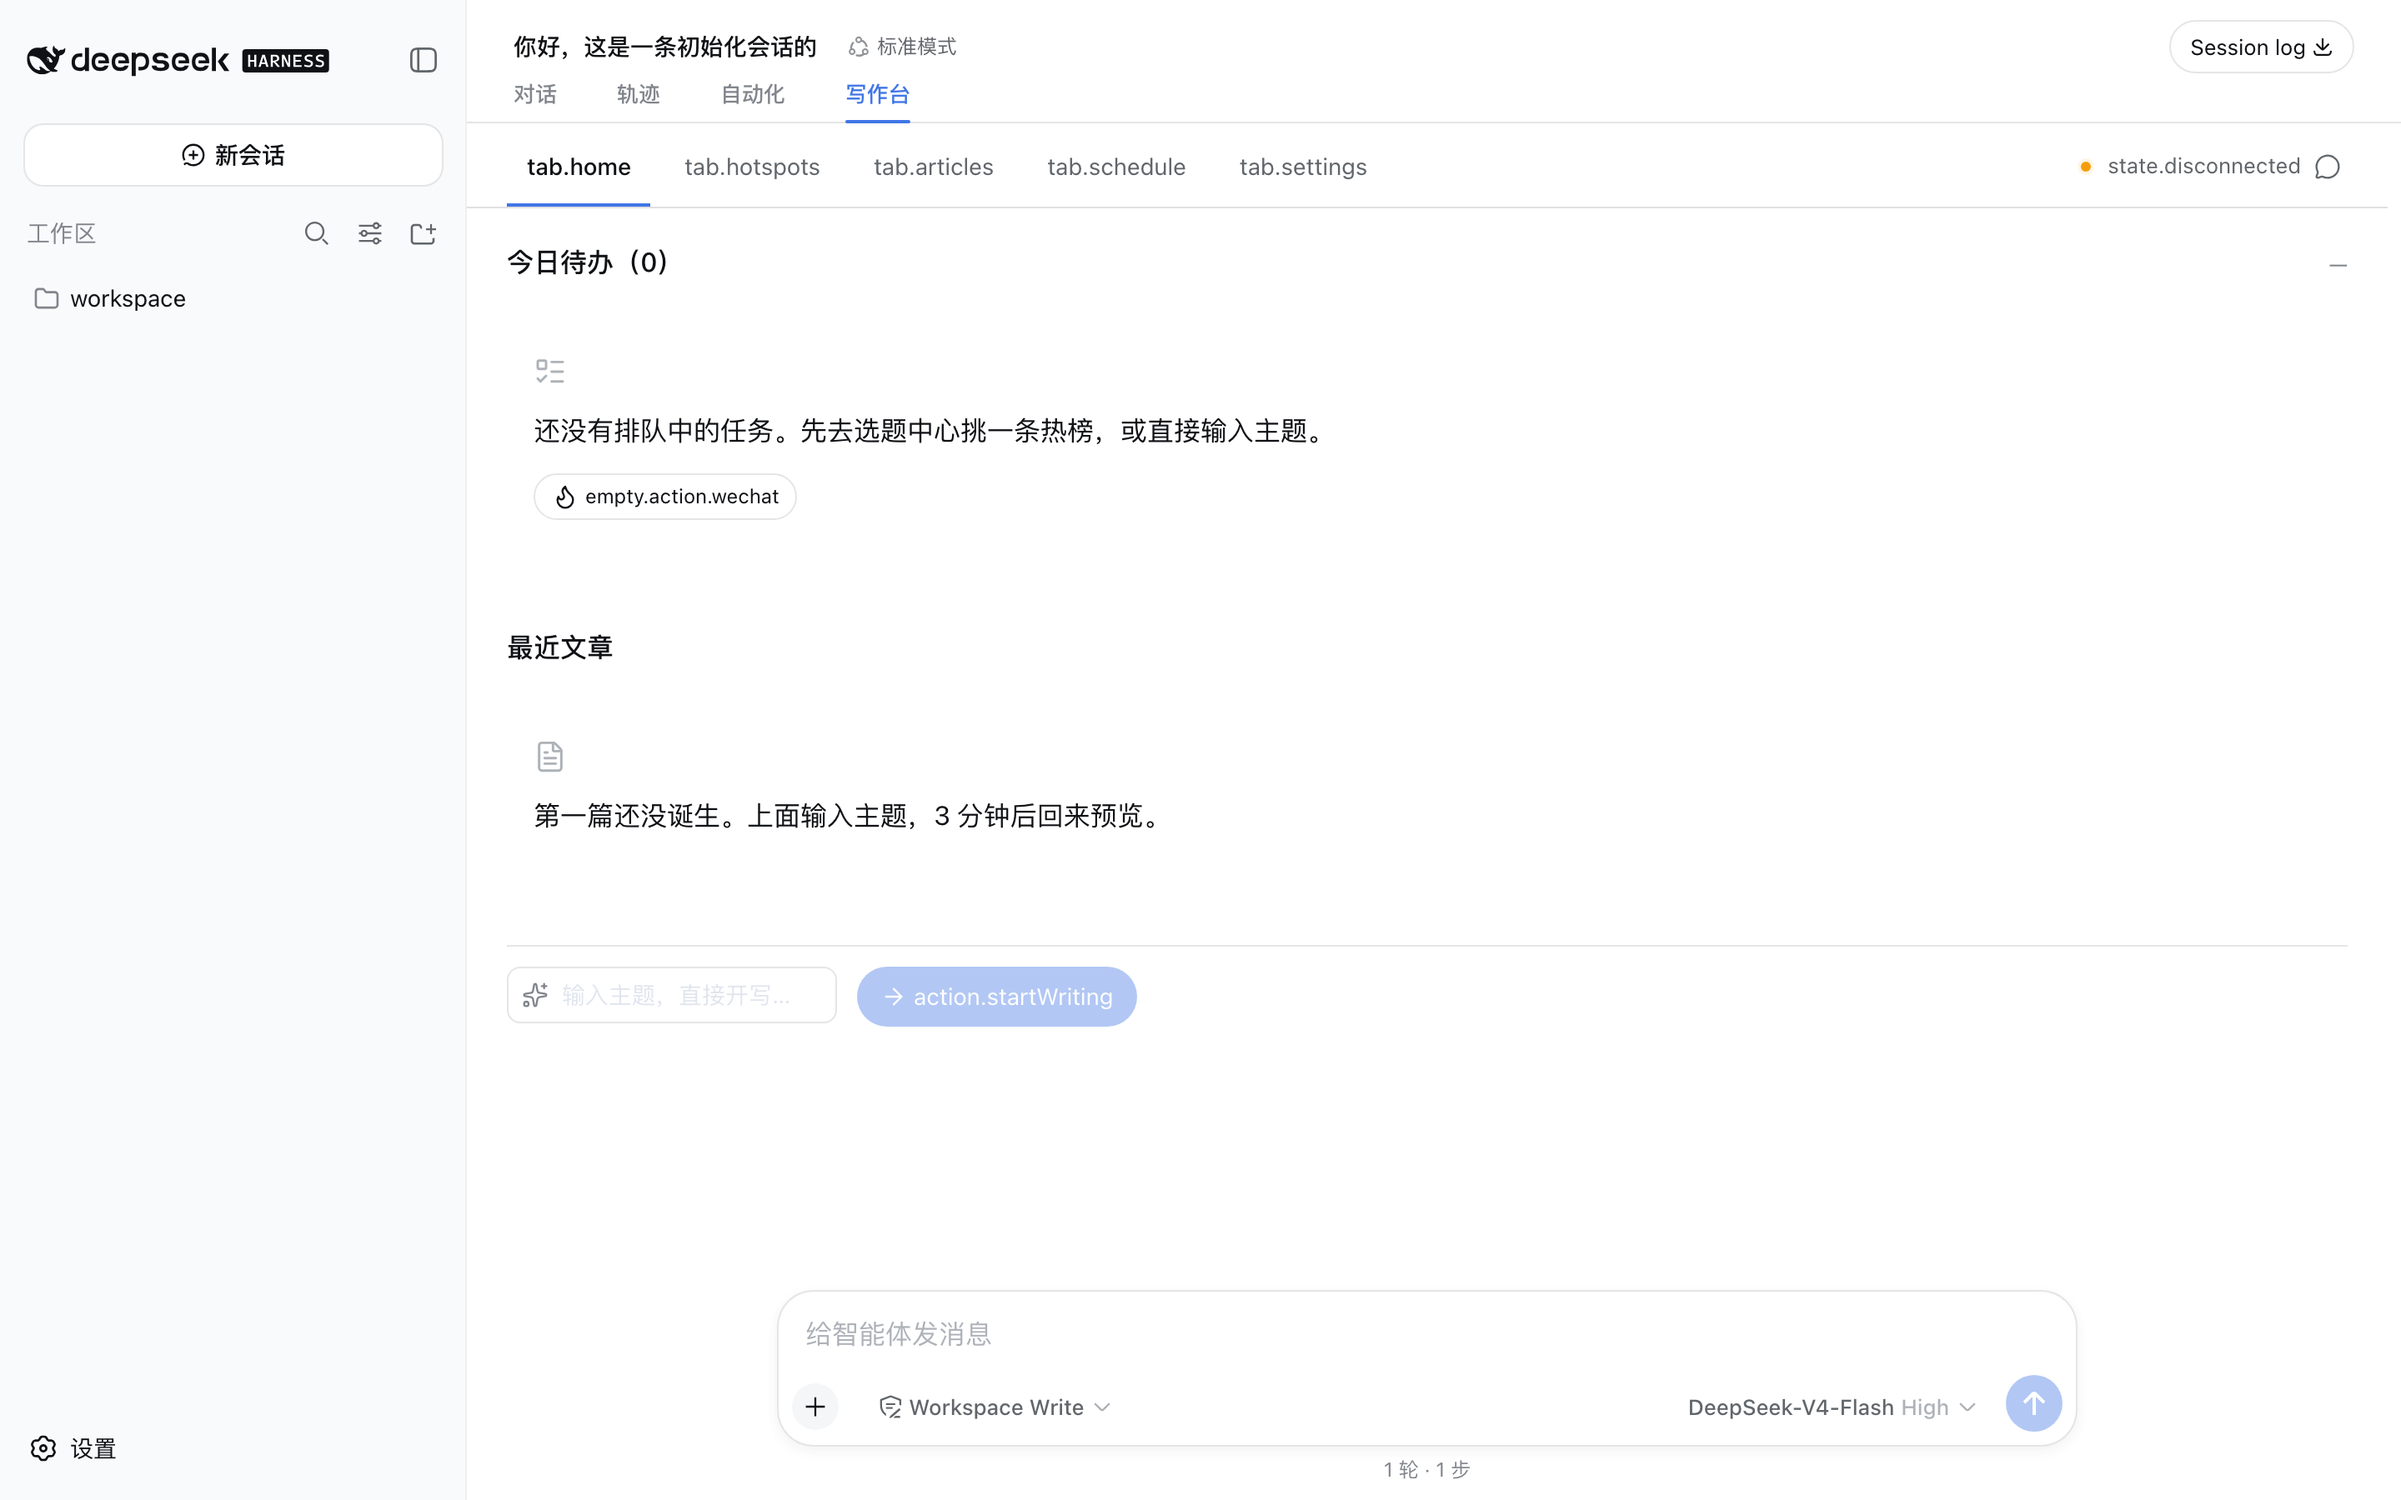
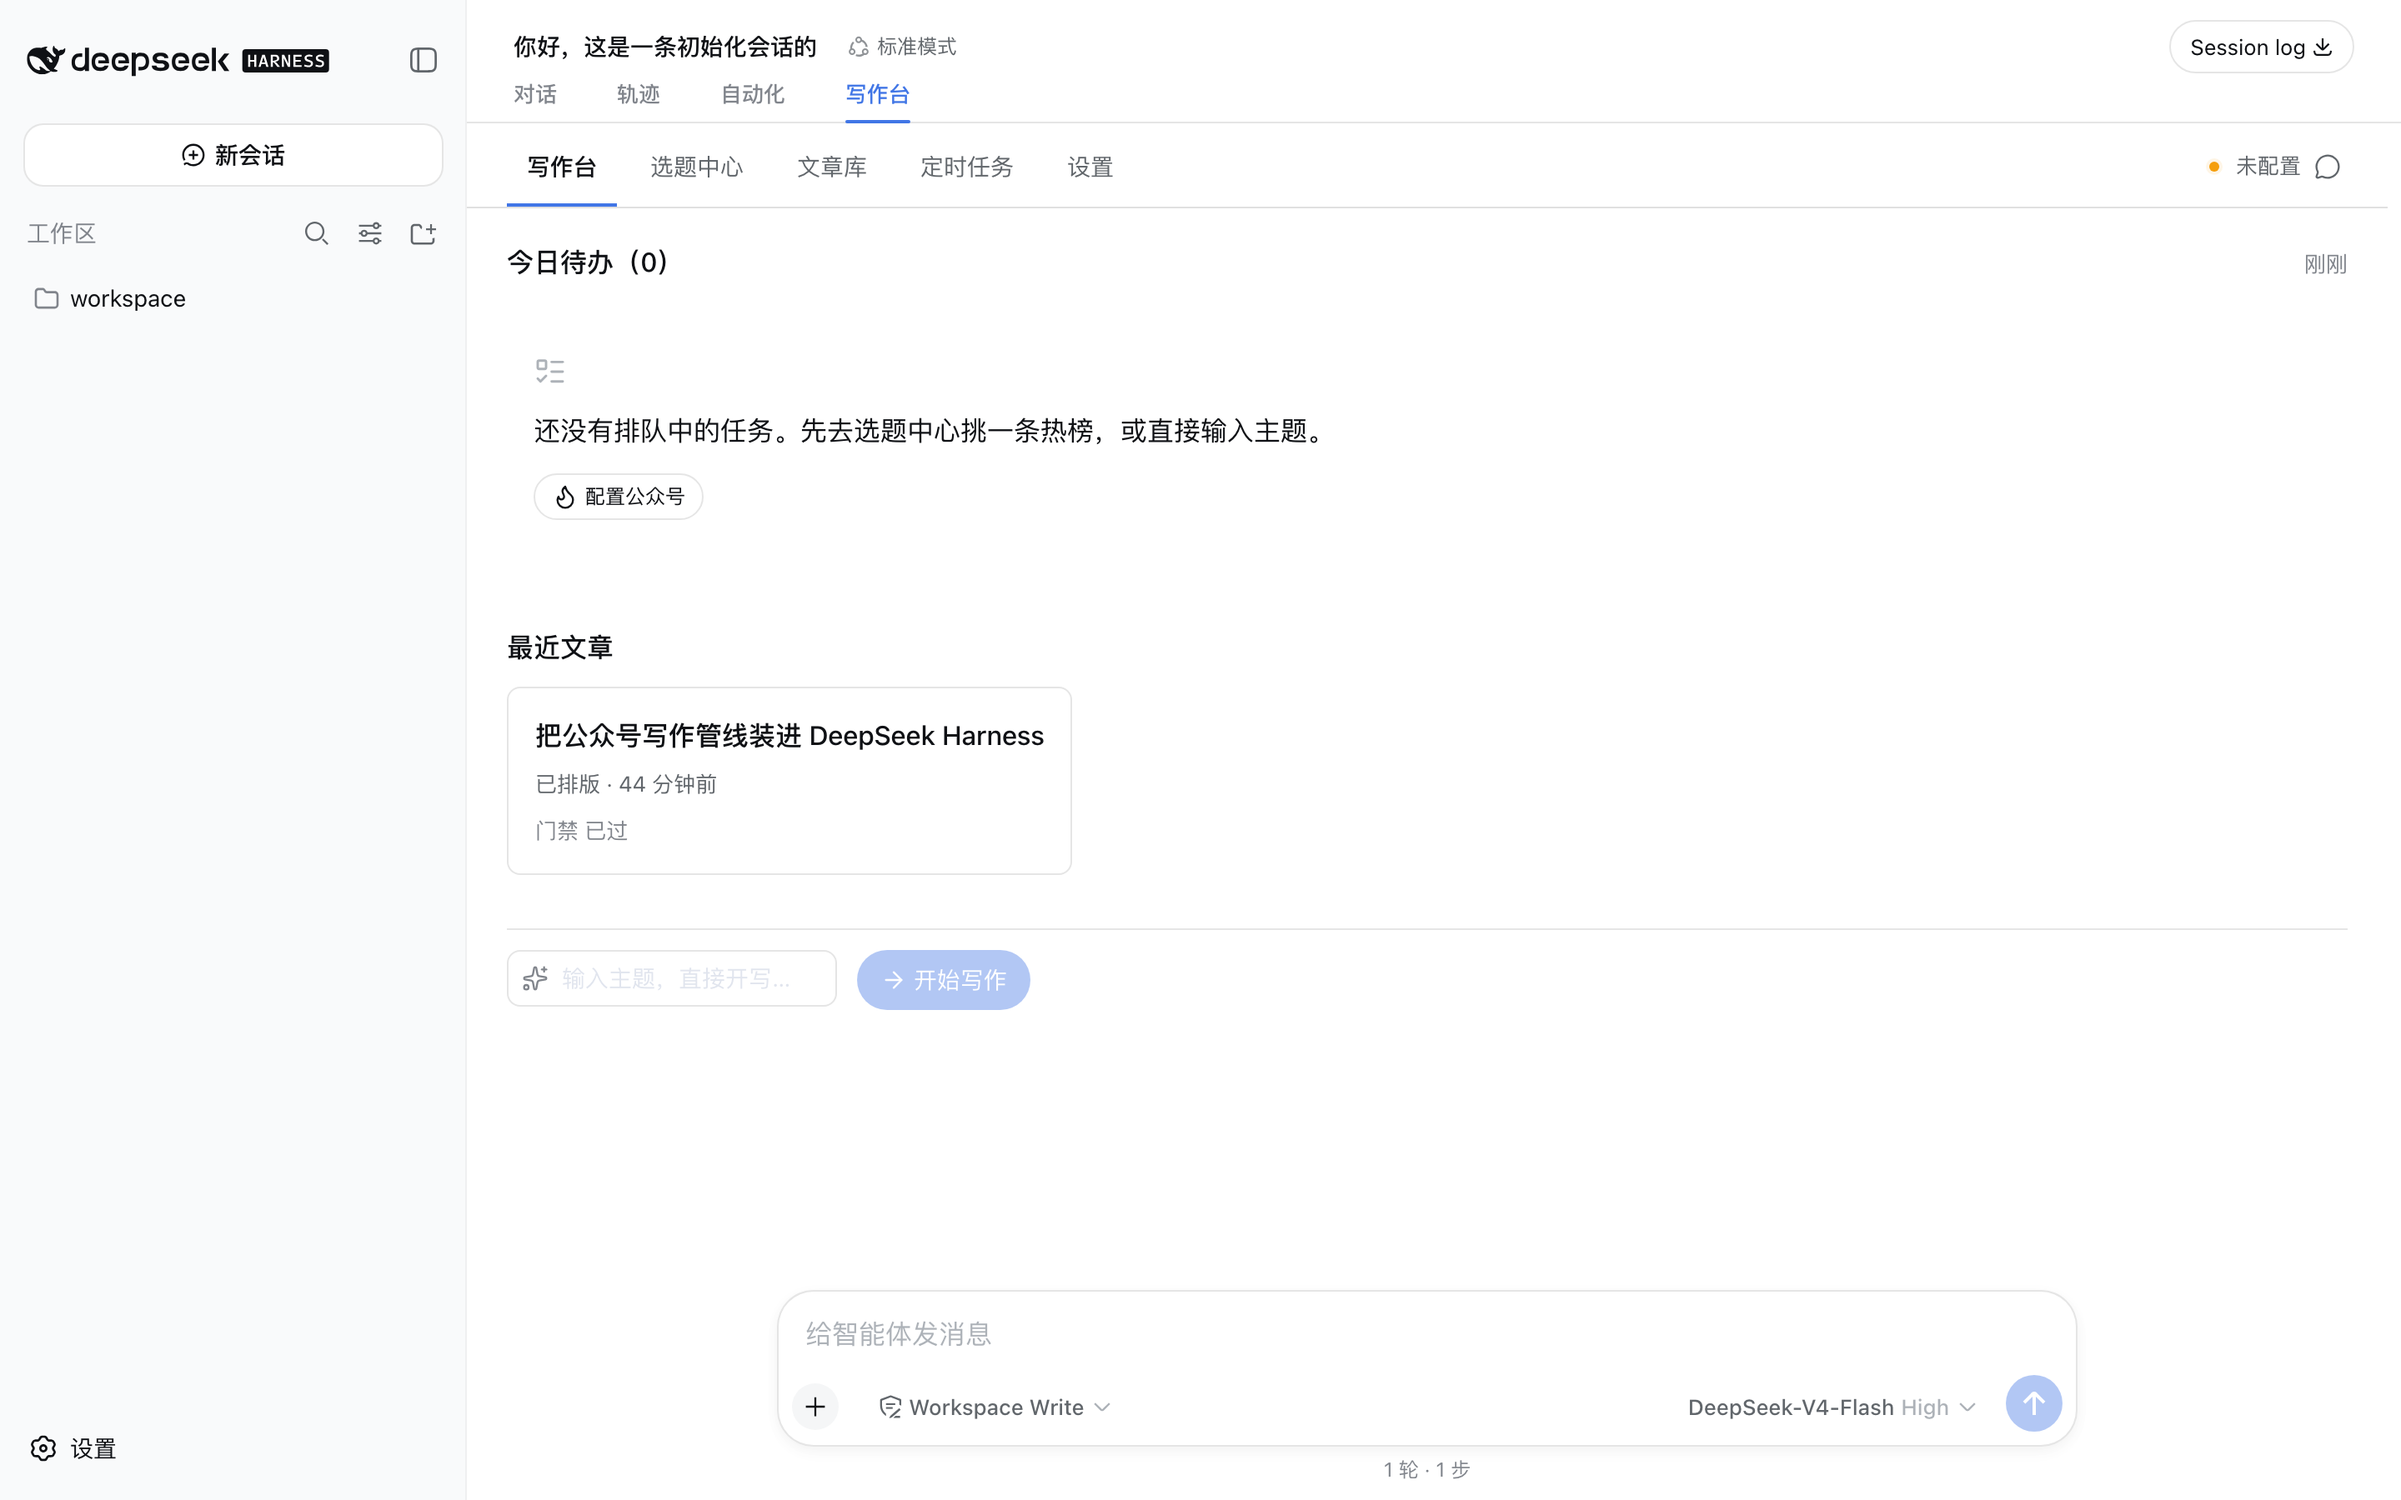
docs: real usage screenshots + codex architecture diagram in README and website; version pins to v0.1.4

diff --git a/website/src/site-data.ts b/website/src/site-data.ts
@@ -1,4 +1,5 @@
 // 全站共享常量（版本 pin：发版时同步 README 与此处，见方向文档 §9.5）
 export const REPO_URL = 'https://github.com/jerryjiao/dsh-wewrite';
+export const VERSION = 'v0.1.4';
 export const INSTALL_CMD =
-  'npx @deepseek-ai/dsh plugin --profile web add github:jerryjiao/dsh-wewrite#v0.1.0';
+  'npx @deepseek-ai/dsh plugin --profile web add github:jerryjiao/dsh-wewrite#v0.1.4';

diff --git a/README.md b/README.md
@@ -8,7 +8,7 @@
 一个 [DeepSeek Harness（DSH）](https://github.com/deepseek-ai/deepseek-harness) 插件：把一条经过 30+ 篇真实文章验证的微信公众号 AI 写作管线（选题 → 大纲 → 成稿 → 质量门禁 → 排版渲染 → 配图 → 草稿箱）产品化。任何 DSH 用户一条命令安装，在本地 Web UI 里完成从选题到草稿箱的全流程。模型与凭据全部走你自己的账号，数据只落本地。
 
 - 官网：https://jerryjiao.github.io/dsh-wewrite/
-- 版本：v0.1.0
+- 版本：v0.1.4
 - License：MIT
 - 适用 DSH：v0.1.x developer preview（见下方[版本兼容表](#版本兼容表)）
 
@@ -19,7 +19,7 @@
 **第 1 步：安装插件**
 
 ```bash
-npx @deepseek-ai/dsh plugin --profile web add github:jerryjiao/dsh-wewrite#v0.1.0
+npx @deepseek-ai/dsh plugin --profile web add github:jerryjiao/dsh-wewrite#v0.1.4
 ```
 
 安装完成后如需卸载：`npx @deepseek-ai/dsh plugin --profile web remove dsh-wewrite`。
@@ -47,6 +47,46 @@ npx @deepseek-ai/dsh web
 
 「选题」面板选一条热榜（内置 Hacker News，可配自定义聚合源）点「以此为题」，或直接输入固定主题。管线自动执行六步（选题 → 大纲 → 成稿 → 门禁 → 渲染 → 配图），进度实时可见。完成后在编辑器里改稿，右侧微信预览与最终推送产物字节一致。确认后点「推草稿箱」，到微信公众平台后台「内容与互动 → 图文素材」里查看草稿。群发请你在公众平台后台人工执行（本插件 v0.1 没有任何群发调用路径，见[安全声明](#安全声明)）。
 
+## 一步步用起来
+
+以下截图全部来自 v0.1.4 真机运行（本机 DSH Web 实拍），按使用动线排列。
+
+**写作台**
+
+<p><img src="assets/screenshots/01-dashboard.png" alt="写作台界面：今日待办计数与提示、最近文章列表（含门禁已过标签）、底部「输入主题，直接开写…」输入框" width="720"></p>
+
+今日待办与最近文章一屏可见，底部输入主题直接开写；未配置凭据时第一步提示「配置公众号」。
+
+**选题中心**
+
+<p><img src="assets/screenshots/02-hotspots.png" alt="选题中心界面：热门榜按序号列出多条 Hacker News 条目，每条带来源与「写这个」按钮" width="720"></p>
+
+热门榜实时拉取（上图为真实 Hacker News 数据），点「写这个」直接进管线。
+
+**文章库**
+
+<p><img src="assets/screenshots/03-articles.png" alt="文章库界面：文章列表含标题、已排版状态、门禁已过标签与更新时间，顶部有筛选与搜索框" width="720"></p>
+
+每篇文章的状态、门禁结果、定时标记与更新时间集中一处，可搜索、可重推。
+
+**编辑器**
+
+<p><img src="assets/screenshots/04-editor.png" alt="编辑器界面：左栏 Markdown 改稿，右栏微信预览显示同名文章的排版效果，顶部有门禁报告与推草稿箱按钮" width="720"></p>
+
+左侧 Markdown 改稿，右侧微信预览与最终推送产物字节一致；门禁报告与推草稿箱在顶部工具栏。
+
+**定时任务**
+
+<p><img src="assets/screenshots/06-schedule.png" alt="定时任务界面：计划卡片显示 RRULE 原文、人类可读翻译与下次运行时间，右上角有新建定时按钮" width="720"></p>
+
+RRULE 原文与人类可读翻译双行展示，下次运行时间可见，可暂停/恢复。
+
+**设置**
+
+<p><img src="assets/screenshots/07-settings.png" alt="设置界面：公众号、模型服务、图片供应商、API 代理、发布纪律分组配置，凭据输入框回显掩码" width="720"></p>
+
+公众号凭据、模型服务、图片供应商链、API 代理分组配置；AppSecret 只回显掩码，连接测试在此。
+
 ## 功能亮点
 
 - **主题写作 + 热门榜选题**：固定主题直写，或从热榜选题。内置 Hacker News（官方 Algolia 索引，无需 key），支持自定义聚合源（DailyHotApi 兼容形态，配 URL 即启用）。单源失败只标记该源，不影响其余源展示。
@@ -60,7 +100,12 @@ npx @deepseek-ai/dsh web
 
 单包双端（host + client），DSH Cordis 插件形态：
 
-```
+<p><img src="assets/diagram/architecture-1536x1024.png" alt="dsh-wewrite 架构图：DSH Web 工作台经 RPC 到宿主插件（写作管线/定时调度/微信草稿箱/图片生成），落本地存储/凭据/DSH 模型，草稿箱指向公众号" width="768"></p>
+
+<details>
+<summary>文字版</summary>
+
+<pre>
 DSH Web UI（React 18，http://127.0.0.1:3080）
   └─ wewrite 工作台 tab
        │  选题 │ 编辑器 │ 微信预览 │ 运行历史 │ 定时计划 │ 设置
@@ -75,7 +120,9 @@ DSH Host（Node + Cordis）
        │               apiBaseUrl 可配 = 代理缝（全部调用统一走该地址）
        └─ providers/  9 家图片供应商 + fallback 编排
   凭据：ctx.credentials（~/.dsh 本地）   数据：storageDomain（~/.dsh 本地）
-```
+</pre>
+
+</details>
 
 设计细节见 `docs/tech-architecture.md`（ADR-001~009 收录于该文档 §10）。
 
@@ -149,7 +196,7 @@ v0.1 没有，这是有意的安全默认（见安全声明）。Roadmap 的 v0.
 
 | dsh-wewrite | DSH | Node | React | 状态 |
 |---|---|---|---|---|
-| v0.1.0 | v0.1.x developer preview（2026-08-13 发布） | ^22.19.0 \|\| >=24.0.0 | 18（宿主提供，peer） | 已验证（2026-08 基线，DSH master@2026-08-17 实测） |
+| v0.1.0 – v0.1.4 | v0.1.x developer preview（2026-08-13 发布） | ^22.19.0 \|\| >=24.0.0 | 18（宿主提供，peer） | 已验证（2026-08 基线，DSH master@2026-08-17 实测） |
 
 DSH v0.1 是 developer preview，不承诺 API 稳定；DSH 升级后如插件失活，优先检查本表并升级插件版本。
 
@@ -189,7 +236,7 @@ npm run build        # 产出 lib/（提交前必跑，产物入库）
 
 **What.** dsh-wewrite is a plugin for DeepSeek Harness (DSH) that turns a WeChat official-account AI writing pipeline—topic, outline, draft, quality gates, render, images, draft box—validated on 30+ real published articles—into a local web workbench. Models and credentials stay yours: text generation uses your DSH model config, secrets never leave `~/.dsh`.
 
-**Install.** `npx @deepseek-ai/dsh plugin --profile web add github:jerryjiao/dsh-wewrite#v0.1.0`, then `npx @deepseek-ai/dsh web` and open http://127.0.0.1:3080 . Fill in your official-account AppID/AppSecret in the workbench settings, run the connection test, pick a topic, and push your first draft. Requires DSH v0.1.x developer preview and Node ^22.19.0 || >=24.0.0.
+**Install.** `npx @deepseek-ai/dsh plugin --profile web add github:jerryjiao/dsh-wewrite#v0.1.4`, then `npx @deepseek-ai/dsh web` and open http://127.0.0.1:3080 . Fill in your official-account AppID/AppSecret in the workbench settings, run the connection test, pick a topic, and push your first draft. Requires DSH v0.1.x developer preview and Node ^22.19.0 || >=24.0.0.
 
 **Safety.** v0.1 pushes to the draft box only; there is no code path for mass publishing (freepublish), by design. Credentials are stored locally via the DSH credentials service and masked in logs; no telemetry is collected. MIT licensed.
 
